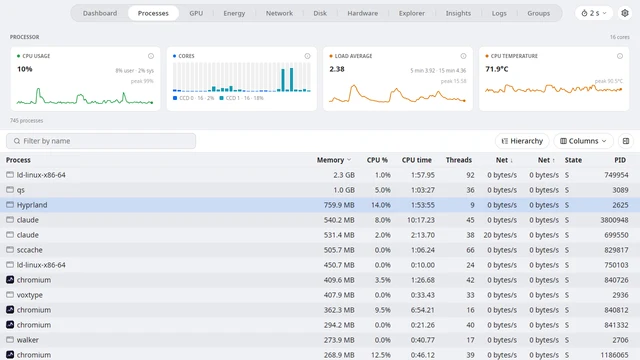
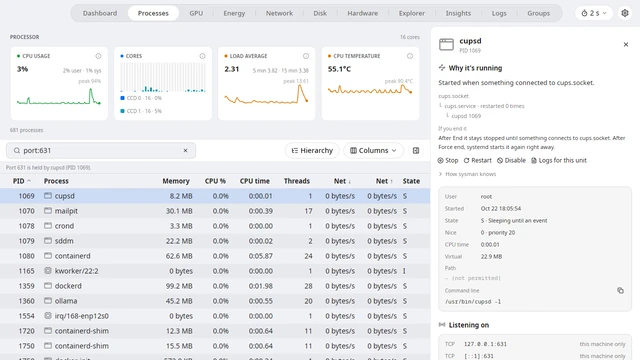
Website: Processes leads with why a process is running, new Processes shots with cupsd and port:631, and the listeners request

diff --git a/docs/site/src/components/Tour.vue b/docs/site/src/components/Tour.vue
@@ -15,9 +15,9 @@ const screens = [
   {
     id: 'processes',
     label: 'Processes',
-    title: 'Every process, with its own history',
-    text: 'A sortable table with over twenty columns to choose from, a hierarchy view and a search filter. The inspector charts one process’s memory, CPU, open files and disk I/O over time, including earlier runs of the same command.',
-    alt: 'The Processes screen: CPU usage, per-core, load average and CPU temperature cards above a table of processes sorted by memory, with CPU %, CPU time, threads, network rates, state and PID columns.',
+    title: 'Every process, and why it’s running',
+    text: 'Select a process and the inspector says in one sentence why it is running: a service enabled at boot, a socket or timer, an app you opened, a command in a terminal, a container. It shows the chain that led to it, whether it comes back if you end it, and the ports it listens on, then charts its memory, CPU, open files and disk I/O over time. The table has over twenty columns, a hierarchy view and a search that also finds which process holds a port.',
+    alt: 'The Processes screen searched for port:631, which names cupsd as the holder. The inspector says why cupsd is running: started when something connected to cups.socket, through cups.socket, cups.service and cupsd, and what happens if you end it, with Stop, Restart, Disable and Logs for this unit, its details, and the two local addresses it listens on.',
   },
   {
     id: 'gpu',
@@ -58,7 +58,7 @@ const screens = [
     id: 'explorer',
     label: 'Explorer',
     title: 'Any metric, any time range',
-    text: 'Pick recorded metrics and processes, including ones that have exited, and chart them side by side with one shared cursor and recorded events marked. Step back in time, zoom, jump to a date, follow live, and export what you see as CSV.',
+    text: 'Pick recorded metrics and processes, including ones that have exited, and chart them side by side with one shared cursor and recorded events marked; a recorded process says why it ran. Step back in time, zoom, jump to a date, follow live, and export what you see as CSV.',
     alt: 'Explorer: a metric list on the left, a grid of charts for total CPU, pressure, memory composition and network throughput, and values at the cursor on the right.',
   },
   {

diff --git a/docs/site/src/components/Faq.vue b/docs/site/src/components/Faq.vue
@@ -43,8 +43,9 @@ const paths = [
             <p>
               No. The collector runs as a systemd user service and the app runs as you. A few readings are
               root-only in Linux (SMART health, CPU package power on most systems, other users’ disk I/O and
-              open files, per-process network traffic); the app shows them as “not permitted” until you turn
-              on the optional helper. The Logs screen reads the whole system journal if you are in the
+              open files, which of their processes holds a listening port, per-process network traffic); the
+              app shows them as “not permitted” until you turn on the optional helper. The Logs screen
+              reads the whole system journal if you are in the
               <span class="inline-code">systemd-journal</span> group (or <span class="inline-code">adm</span>,
               or <span class="inline-code">wheel</span> on Arch); otherwise it shows only your own entries.
             </p>
@@ -135,9 +136,10 @@ const paths = [
           <summary>Can I use the data in my own scripts?</summary>
           <div class="answer">
             <p>
-              Yes. The socket speaks line-delimited JSON with four requests:
+              Yes. The socket speaks line-delimited JSON with five requests:
               <span class="inline-code">meta</span>, <span class="inline-code">latest</span>,
-              <span class="inline-code">subscribe</span> and <span class="inline-code">processes</span>.
+              <span class="inline-code">subscribe</span>, <span class="inline-code">processes</span> and
+              <span class="inline-code">listeners</span>.
               History is plain SQLite in WAL mode; open it read-only.
             </p>
             <CodeBlock class="mt-4" :code="socket" />

diff --git a/docs/site/src/components/Architecture.vue b/docs/site/src/components/Architecture.vue
@@ -4,7 +4,7 @@ import Icon from './Icon.vue'
 const stores = [
   { name: 'Crash log', path: '~/.local/share/sysman/log/', note: 'JSON Lines, synced every tick, today and yesterday', dot: 'bg-warn' },
   { name: 'History', path: '~/.local/share/sysman/history.db', note: 'SQLite with rollups and recorded events, opened read-only by readers', dot: 'bg-accent' },
-  { name: 'Live socket', path: '$XDG_RUNTIME_DIR/sysman.sock', note: 'line-delimited JSON: meta, latest, subscribe, processes', dot: 'bg-ok' },
+  { name: 'Live socket', path: '$XDG_RUNTIME_DIR/sysman.sock', note: 'line-delimited JSON: meta, latest, subscribe, processes, listeners', dot: 'bg-ok' },
 ]
 
 const facts = [
@@ -50,7 +50,8 @@ const facts = [
           </div>
           <p class="mt-4 text-sm leading-relaxed text-muted">
             Reads only what needs root: SMART drive health, CPU package power, other users’ disk I/O and
-            open files, and per-process network traffic through eBPF.
+            open files, which of their processes holds a listening port, and per-process network traffic
+            through eBPF.
           </p>
           <p class="mt-auto pt-4 text-xs text-subtle">Confined by systemd, with no network of its own.</p>
         </div>
